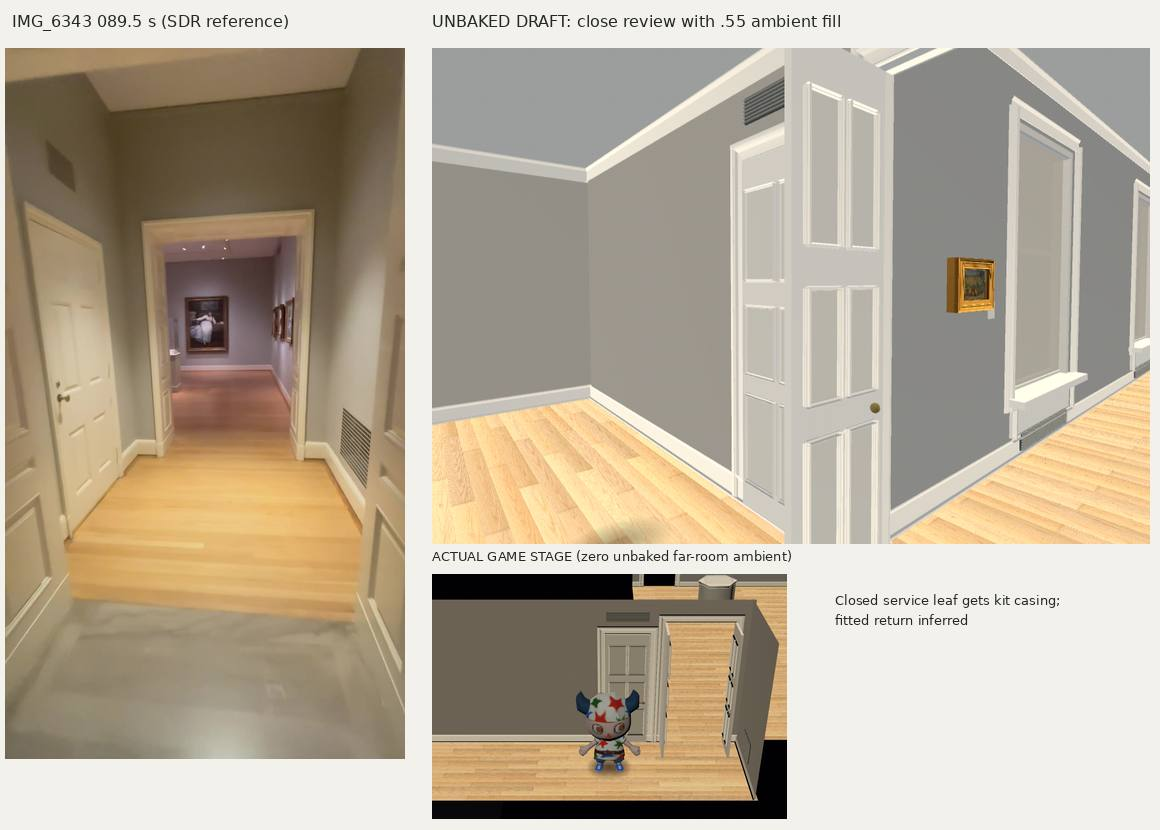
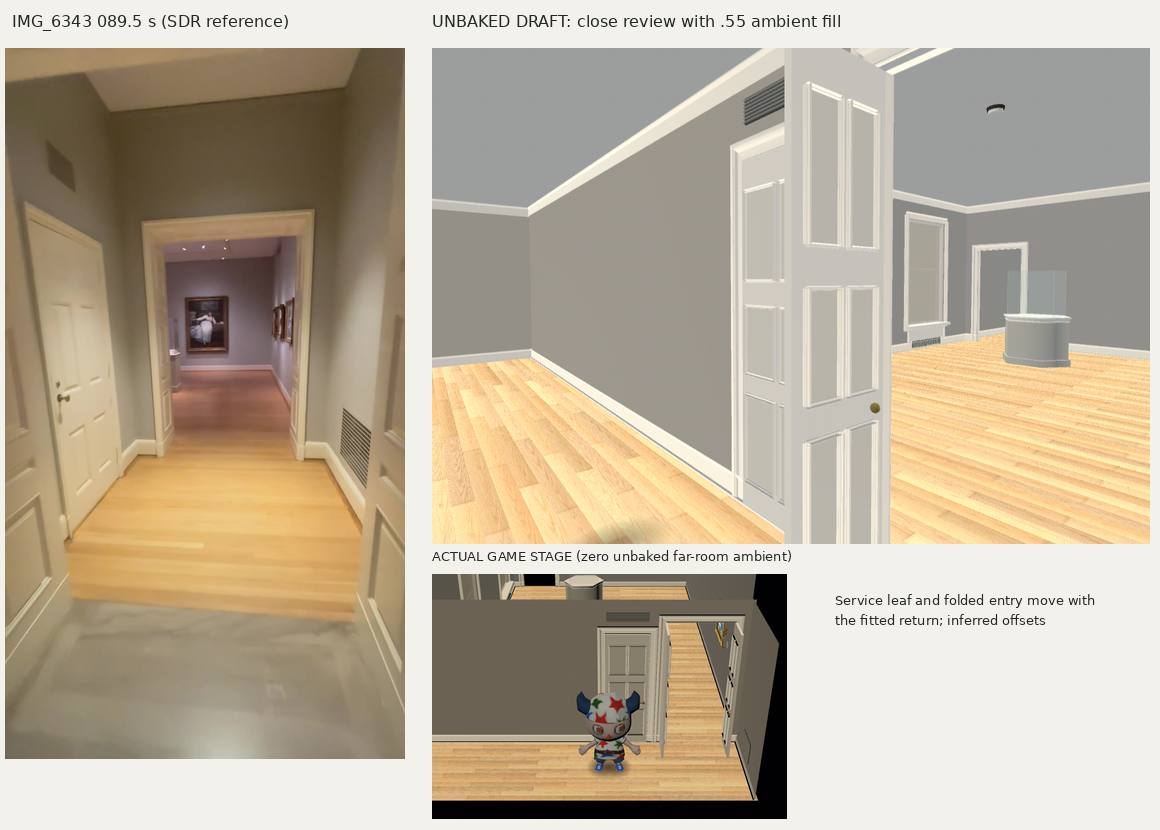
Show the corrected north entry and final gallery evidence

diff --git a/docs/evidence/impressionist-277/index.html b/docs/evidence/impressionist-277/index.html
@@ -19,5 +19,6 @@
 <figure><a href="4-work-Monet.jpg"><img loading="lazy" src="4-work-Monet.jpg" alt="A west: Monet 1998.107, existing tracked image"></a><figcaption>A west: Monet 1998.107, existing tracked image</figcaption></figure>
 <figure><a href="4-work-Cezanne.jpg"><img loading="lazy" src="4-work-Cezanne.jpg" alt="A east: Cézanne 41.012, existing tracked image"></a><figcaption>A east: Cézanne 41.012, existing tracked image</figcaption></figure>
 <figure><a href="4-work-Giverny.jpg"><img loading="lazy" src="4-work-Giverny.jpg" alt="B end wall: Monet 44.541, existing tracked image"></a><figcaption>B end wall: Monet 44.541, existing tracked image</figcaption></figure>
+<figure><a href="6-north-wall.jpg"><img loading="lazy" src="6-north-wall.jpg" alt="A northwest entry leaves two north-wall work positions bare"></a><figcaption>A northwest entry leaves two north-wall work positions bare</figcaption></figure>
 <figure><a href="fitted-plan.jpg"><img loading="lazy" src="fitted-plan.jpg" alt="Fixed-door plan: depths and extra passage return are inferred"></a><figcaption>Fixed-door plan: depths and extra passage return are inferred</figcaption></figure>
 </html>

diff --git a/docs/evidence/impressionist-277/fitted_plan.py b/docs/evidence/impressionist-277/fitted_plan.py
@@ -74,7 +74,7 @@ Longitudinal gap: 3.86 m
 Fit adds: passage +3.00 m,
 A +.06 m and B +.80 m.
 
-Extra lateral return: 4.70 m
+Extra lateral return: 8.90 m
 This is not observed in the clip.
 No adjoining room moves.
 

diff --git a/docs/evidence/impressionist-277/NOTES.md b/docs/evidence/impressionist-277/NOTES.md
@@ -16,7 +16,7 @@ Coordinates name the **fitted build plan**, not geographic compass directions. L
 | A width | **6.25 ± .60 m** | 147; rectified end wall, Le Repos canvas 1.140 × 1.502 m |
 | A depth | **9.6 ± 1.5 m**, inferred | 94, 143, 147; canvas angular width and assumed 50–60° portrait horizontal field of view; optics uncalibrated |
 | A height | **3.69 ± .35 m** | 147; same-plane ceiling/floor corners and Manet |
-| A entry | north wall, centre about 5.30 ± .45 m from west corner; 1.4 ± .2 m clear; head about2.7 ± .3 m, inferred | 141, 147; door/Manet scale, position weaker than end wall |
+| A entry | north wall near west end, centre fitted at1.00 ± .45 m from west corner; 1.4 ± .2 m clear; head about2.7 ± .3 m, inferred | 129/137–141; north-wall order is door → portrait → Children in the Tuileries → east corner; door/Manet scale, offset inferred |
 | A → B door | south wall, centre .95 ± .20 m from east corner; 1.04 ± .15 m clear, head **2.47 ± .20 m** | 147; Manet-plane homography; floor inside B is behind plane, so use A end-wall floor line |
 | A finishes | cool grey painted walls; white skirting/casings/cornice; honey oak straight boards across the room; pale flat ceiling | 98, 121, 145, 147 |
 | A window 1 | east wall, centre 3.0 ± .6 m from north; outer width 1.6 ± .2 m, sill .55 ± .12 m, head 3.15 ± .25 m | 143, 149; Degas canvas .464 × .629 m |
@@ -46,13 +46,13 @@ The footage does **not** establish a calibrated global camera pose. Adding the e
 | New area | Fitted bounds [x0, x1, z0, z1] | Height | Openings |
 | --- | --- | --- | --- |
 | Impressionist passage | [19.45, 21.45, -2.86, 1.04] | 3.2 | west z[-2.51,-1.41]; south x[19.75,21.15] |
-| Impressionist passage return | [14.75, 21.45, 1.04, 3.04] | 3.2 | north x[19.75,21.15]; south x[15.10,16.40] |
-| Impressionist gallery A | [10.55, 16.70, 3.04, 12.70] | 3.69 | north x[15.10,16.40]; south x[15.20,16.30] |
+| Impressionist passage return | [10.55, 21.45, 1.04, 3.04] | 3.2 | north x[19.75,21.15]; south x[10.90,12.20] |
+| Impressionist gallery A | [10.55, 16.70, 3.04, 12.70] | 3.69 | north x[10.90,12.20]; south x[15.20,16.30] |
 | Impressionist gallery B | [10.55, 16.70, 12.70, 22.30] | 3.5 | north x[15.20,16.30]; south x[15.10,16.40] |
 
-A's depth is stretched **.06 m**, B's **.80 m**, and the passage adds **3.00 m** of southward travel (5.00 m from stair centre to A entry instead of the 2.00 m filmed estimate). This totals the required **3.86 m** longitudinal fit. Both gallery widths are **6.15 m**, .10/.15 m narrower than the estimates. The passage return also adds **4.70 m of lateral travel** between x20.45 and x15.75; that return is a build fit, **not observed in the clip**. No existing adjoining room moves. The under-stair internal leg x17.85–19.45 is already inside the hall and has its obstruction opened.
+A's depth is stretched **.06 m**, B's **.80 m**, and the passage adds **3.00 m** of southward travel (5.00 m from stair centre to A entry instead of the 2.00 m filmed estimate). This totals the required **3.86 m** longitudinal fit. Both gallery widths are **6.15 m**, .10/.15 m narrower than the estimates. The passage return also adds **8.90 m of lateral travel** between x20.45 and x11.55; that return is a build fit, **not observed in the clip**. No existing adjoining room moves. The under-stair internal leg x17.85–19.45 is already inside the hall and has its obstruction opened.
 
-The first draft exposed a mirror error: looking towards +z, screen left is world **east**, and the filmed windows and end door are both on that side. The fit was corrected before the shell checkpoint. A/B now lie west of the passage and have east-side doors and windows; this preserves the filmed relationship and reduces gallery-depth distortion. The four new rectangles do not overlap any existing room. Their opening intervals match pairwise, including the retained modern far door. Source assertions and draft route samples check closure in the build. The passage return, room depths and wall offsets remain **INFERRED**; the exact physical museum plan is **not accepted**.
+The first draft exposed a mirror error: looking towards +z, screen left is world **east**, and the filmed windows and end door are both on that side. The fit was corrected before the shell checkpoint. A/B now lie west of the passage, with east-side windows and the A–B/modern doors near their east ends. A's north entry is at the west end after the correction in§14; this preserves the filmed relationship and reduces gallery-depth distortion. The four new rectangles do not overlap any existing room. Their opening intervals match pairwise, including the retained modern far door. Source assertions and draft route samples check closure in the build. The passage return, room depths and wall offsets remain **INFERRED**; the exact physical museum plan is **not accepted**.
 
 ## 3. Census checklist
 
@@ -95,14 +95,14 @@ The first preliminary (mirrored) draft command completed in the one `rebuild-imp
 | stair hall internal exit | x17.85 | z[-2.51,-1.41] | 2.47 | closed double leaf / solid wall removed |
 | stair hall outer east ↔ passage west | x19.45 | z[-2.51,-1.41] | 2.47 | new paired opening |
 | passage south ↔ return north | z1.04 | x[19.75,21.15] | 2.74 | new paired opening |
-| return south ↔ A north | z3.04 | x[15.10,16.40] | 2.74 | new paired opening |
+| return south ↔ A north | z3.04 | x[10.90,12.20] | 2.74 | new paired opening, corrected westward4.20m in§14 |
 | A south ↔ B north | z12.70 | x[15.20,16.30] | 2.47 | new paired opening |
 | B south ↔ modern north | z22.30 | x[15.10,16.40] | 2.74 | modern opening retained, stub replaced by B |
 
-New reciprocal doorway trials (x,z, room-scene metres): `impressionist_stair_inner` (16.85,-1.96) ↔ (19.05,-1.96); `impressionist_stair_outer` (19.05,-1.96) ↔ (20.45,-1.96); `impressionist_passage_return` (20.45,.40) ↔ (20.45,1.80); `impressionist_return_A` (15.75,2.25) ↔ (15.75,3.85); `impressionist_A_B` (15.75,11.85) ↔ (15.75,13.55). Each has `_out` and `_back`.
+New reciprocal doorway trials (x,z, room-scene metres): `impressionist_stair_inner` (16.85,-1.96) ↔ (19.05,-1.96); `impressionist_stair_outer` (19.05,-1.96) ↔ (20.45,-1.96); `impressionist_passage_return` (20.45,.40) ↔ (20.45,1.80); `impressionist_return_A` (11.55,2.25) ↔ (11.55,3.85); `impressionist_A_B` (15.75,11.85) ↔ (15.75,13.55). Each has `_out` and `_back`.
 
-The **28** `impressionist_route_00..13_out/back` trials follow:
-`(20.45,-1.96) → (20.45,.40) → (20.45,2.04) → (18.25,2.04) → (15.75,2.04) → (15.75,3.85) → (14.85,6.20) → (14.85,9.20) → (15.75,11.85) → (15.75,13.55) → (13.25,15.70) → (13.25,18.70) → (13.25,20.65) → (15.75,21.45) → (15.75,23.25)`, each segment ≤3.5 m. The existing `modern_far_opening_out/back` retain their coordinates (15.75,23.25) ↔ (15.75,21.45). **38 added trials; no pre-existing trial moved**. Baked playtest has not been run on a draft.
+The **32** `impressionist_route_00..15_out/back` trials follow:
+`(20.45,-1.96) → (20.45,.40) → (20.45,2.04) → (18.25,2.04) → (15.00,2.04) → (11.75,2.04) → (11.55,3.85) → (13.55,5.20) → (14.85,6.20) → (14.85,9.20) → (15.75,11.85) → (15.75,13.55) → (13.25,15.70) → (13.25,18.70) → (13.25,20.65) → (15.75,21.45) → (15.75,23.25)`, each segment ≤3.5 m. The existing `modern_far_opening_out/back` retain their coordinates (15.75,23.25) ↔ (15.75,21.45). **42 added trials; no pre-existing trial moved**. Baked playtest has not been run on a draft.
 
 Close draft photographs use the room draft's .55 ambient fill and show adjacent rooms for geometry review. Game photographs retain the actual walking adapter's zero far-room ambient and its stage masking. The adapter expects a bake; a black ceiling in that unbaked game view is not proof of missing ceiling geometry. No runtime light setting is changed by the capture script.
 
@@ -143,7 +143,7 @@ Room-owned additions call the kit for trims/leaf beads and reuse existing cloth;
 
 Four already-tracked museum photographs are used: A west42.219 at along2.45/y1.65 and1998.107 at along8.05/y1.65; A east41.012 at along1.35/y1.62; B south44.541 at along3.15/y1.65. Canvas sizes are respectively .743×.552, .648×.533, .397×.232 and .927×.648 m, from the linked primary records. Three source JPEGs come from `prototypes/painting-coverflow/web/assets/`; Cézanne comes from the existing `inventory-catalogue/` photo. Every source byte is unchanged. Existing carved gilt E7/plain gilt W10 frames are fitted to approximately1.016×.807, .912×.780, .576×.399 and1.135×.843 m; ornament fidelity is provisional. Blank card shapes go to the viewer's right. The other12 paintings have bare wall positions; the dancer's case is empty.
 
-Additional edits outside the additions file: a separate six-line image-copy block in `prepare_remodel.py`; exactly four new authored rows each in `objects.json` and `representation.json` (no old declaration or shortfall changed); append the four source/provider/hash/cost records to `modules/shell/PROVENANCE.md`. Evidence/capture files are review-only. No generated rooms, images or import settings are committed.
+Additional edits outside the additions file: a separate six-line image-copy block in `prepare_remodel.py`; exactly four new authored rows each in `objects.json` and `representation.json` (no old declaration or shortfall changed); append the four source/provider/hash/cost records to `modules/shell/PROVENANCE.md`. Evidence/capture files are review-only. No generated room scenes, runtime images or import settings are committed.
 
 The unchanged representation checker on the source draft reported **181 built, 181 declared, failures=[]**. Its15 pre-existing unregistered works are unchanged and outside #277. The unchanged architecture checker still reports **28 casings, failures=[]**. The native capture completed without errors; all40 route trials remain clear. `4-work-Basin.jpg`, `4-work-Monet.jpg`, `4-work-Cezanne.jpg`, `4-work-Giverny.jpg` and `4-room-A.jpg` show the four actual photographs hung in the draft beside source footage. **VERIFIED:** all four images/frames appear, with bare spaces for the remaining works. **INFERRED:** wall offsets, borrowed ornament fidelity and final baked brightness. The official final draft completed with `ARCHITECTURE_CHECK failures=[]` and28 cased door sides at about18:49 UTC, source tip `a4132e1e`.
 
@@ -188,12 +188,29 @@ One interim capture was stopped after the rebuild had cleared its unchanged char
 The final official rebuild at source tip9b1e6e9f timed out at20:11 UTC **while waiting in `flock`**, before any preparation or architecture output (exit124). It did not alter the retained draft and is not an architecture failure. The same unpaid `--draft` command was requeued; its result is recorded below. Direct native source checks/pictures remain clear as above.
 
 
-## 13. Final source handoff
+## 13. Pre-entry-correction source handoff (9b1e6e9f)
 
 The requeued official `scripts/rebuild_rooms.sh --draft` completed at **20:21 UTC**, source tip **9b1e6e9fa38ae136ce4f98b60f77c96a1b27e877**, and printed **ARCHITECTURE_CHECK failures=[]**, **29 cased sides**, then the draft-project path. The earlier timeout was host-lock waiting only. This rebuild prepared **19 plan areas** and **38 new route trials**; both additions and all four existing artwork photographs match source bytes. The prepared shared shell has only its pipeline's three expected substitutions (retained Hall surface naming and the separate bake resource paths).
 
 The 44 unchanged capture dependencies were restored and imported successfully. The fresh native GL Compatibility capture completed with **40 reciprocal trials clear**, **zero route failures**, exit0 and no `ERROR`/`SCRIPT ERROR`. Source-draft representation again reports **181 built /181 declared, failures=[]**, exit0. The six `5-final-*.jpg` pictures are refreshed from this official final draft, with source footage at143/218/147/89.5/86s beside them. Their close views use the documented review-only.55 ambient fill; their game insets retain the actual zero unbaked far-room ambient. No lighting acceptance is claimed. Fresh in-memory UV2 preparation on this official final draft reports **400 opaque surfaces**, zero failures/duplicate owned names, exit0 and no bake.
 
-The last full `scripts/check.sh` run exits1 on **exactly the same seven installed-scene mismatches**, and does **not** print `checks passed`: three unrelated stale medieval mesh placements plus the four new paintings absent from the old installed scene. Image and record checks pass; no gate or declaration was weakened. `git diff --check` is clean. Baked `museum_playtest.gd --only=doors` remains for the orchestrator after installation. Its six door planes and38 new/two retained trials are specified in§7; no old trial or door moves.
+The last full `scripts/check.sh` run exits1 on **exactly the same seven installed-scene mismatches**, and does **not** print `checks passed`: three unrelated stale medieval mesh placements plus the four new paintings absent from the old installed scene. Image and record checks pass; no gate or declaration was weakened. `git diff --check` is clean. Baked `museum_playtest.gd --only=doors` remains for the orchestrator after installation. That checkpoint had38 new/two retained trials; the corrected handoff in§14/§7 has42 new/two retained. No baseline trial or existing room door moves.
 
 The measured artwork positions/window/door relationships and fitted dimensions retain the uncertainty in§1–2 and `WORKS-NEEDED.md`. Exact physical museum geometry, final daylight/track pools, borrowed frame ornament and incomplete bench elevation remain **INFERRED / unaccepted**. Twelve paintings and the bronze need approved assets; their positions remain bare/empty. The existing modern-room Venetian blinds, the marble hall's other census faults, and the stale generated medieval scene are outside #277. No merge, issue closure, bake, generated-room installation, paid request or copyright-hold image was made. The private draft is left for the orchestrator at the named extension path.
+
+
+## 14. North-entry correction
+
+The final inventory clearance audit found A's preliminary north opening overlapped A-N1 (Children in the Tuileries Gardens). Re-reading129/137/139/141 resolves the north-wall order, west to east: **entry, Carolus-Duran portrait, Children in the Tuileries, east corner/Cézanne**. The preliminary assumption that both A doors belonged at the east end was wrong. The north entry is corrected to **x11.55 atz3.04**, clear **[10.90,12.20]**, while the A–B opening stays atx15.75/z12.70 and both existing stair/modern doors stay fixed.
+
+Only A's north/return's south intervals and the return's west bound change in `prepare_remodel.py`; the return now starts atx10.55, touches the Grand Gallery's east wall without overlap, and provides **8.90m of inferred lateral travel** instead of4.70m. Longitudinal residual3.86m, gallery dimensions, all four windows, works/case/bench and other rooms are unchanged. The folded A-entry leaves move west4.20m in the own additions file; the service leaf, its kit surround/high vent and low grille follow the return's new west end automatically. Final service centre isx12.95, high vent y2.85. No lamp or kit implementation changes.
+
+`impressionist_return_A_out/back` moves fromx15.75 tox11.55. Only newly added #277 route legs are resampled through the longer return and the western entry; route names now00..15, giving **42 new reciprocal trials** plus the2 unchanged `modern_far_opening` trials. Source waypoints and every final door interval are in§7. The earlier checkpoint counts/images remain historical; the refreshed final evidence supersedes their north-entry relationship. Exact entry offset/return length remain **INFERRED**, with frame references/errors in§1.
+
+The official corrected-entry `--draft` completed at **20:40 UTC**, source tip **503144688befc2a05eb0bf16dcc859c7f51cacaa**: **ARCHITECTURE_CHECK failures=[]**, **29 cased sides**, **19 plan areas**, **42 new trials**. The new bounds still pass the no-overlap and paired-opening assertions. Additions/four photographs match source bytes;44 unchanged capture dependencies were restored/imported.
+
+Fresh native GL Compatibility photographs verify the west-end north entry and the service/folded leaves in their corrected positions. **All44 reciprocal trials are clear** (42 new/2 retained), native capture exit0 with no `ERROR`/`SCRIPT ERROR`. Source-draft representation is **181 built/181 declared, failures=[]**, exit0;400 owned opaque surfaces unwrap without failure or duplicate owned names, exit0/no bake. The first concurrent headless representation run printed an exit-cleanup error for one resource still in use despite its passing marker/exit0. A targeted run alone passed with no error; the cause is unverified and no checker was changed. Native captures have no such error.
+
+The six `5-final-*` pictures are now refreshed from50314468; `6-north-wall.jpg` shows the corrected entry and bare north-wall work positions beside129s. These supersede the earlier photographs' preliminary northeast entry. The fitted-plan diagram uses this final prepared geometry and8.90m return. B-E3's proposed fitted slot is3.40m, within the footage estimate3.78±.8m, to leave room for its future frame/card by the window casing; the measured estimate remains in `WORKS-NEEDED.md`.
+
+The full `scripts/check.sh` at this source exits1 on the same seven installed-scene mismatches and does not print `checks passed`; images43/129 and record-floor checks pass. `git diff --check` is clean. No generated runtime scene/image, lamp/kit implementation, frozen seam or pre-existing room/door/trial changes. Final lamp pools, the bake/install, baked doors and Web traversal remain the orchestrator's work. No end-of-task issue comment has been posted before this corrected proof.

diff --git a/modules/shell/PROVENANCE.md b/modules/shell/PROVENANCE.md
@@ -1097,4 +1097,35 @@ Reused textures (existing provider/generation record retained; zero new spend):
 
 Room geometry is locally authored GDScript in `impressionist_additions.gd`: six-sided plinth/clear hood, rounded upholstered bench, panelled leaves, sash windows/roller shades/aprons, grilles and detector. Plain/procedural materials and the existing white trim/wood kit are reused; no new raster generation. Borrowed gilt frame textures are fitted to approximate filmed outer dimensions; fine ornament fidelity is unaccepted. Lamps and the bake remain #274/orchestrator work.
 
[2 lines of base64/hex data omitted]
+
+#277 review-image evidence (no runtime dependency): source footage IMG_6343.MOV (SDR) and native unbaked Godot4.7.2 GL Compatibility views, with exact frame/checkpoint in NOTES.md. Provider: local ffmpeg/Godot/Pillow; model: none; count26 review JPEGs; total new spend: USD0. Close views use review-only.55 ambient, game insets retain actual zero unbaked far-room ambient. Diagram source/geometry are recorded above.
+
+| Review file | SHA-256 |
+| --- | --- |
[26 lines of base64/hex data omitted]

diff --git a/docs/evidence/impressionist-277/WORKS-NEEDED.md b/docs/evidence/impressionist-277/WORKS-NEEDED.md
@@ -19,7 +19,7 @@ Wall directions and metres refer to the fitted plan in `NOTES.md`, not geographi
 | B-S2 | Chestnut Trees and Farm at Jas de Bouffan — Paul Cézanne — **33.053** | B south | 1.15 / 1.65 | .810 × .654; frame .97 × .81 ± .08 | 190–192, 214; [RISD](https://risdmuseum.org/art-design/collection/chestnut-trees-and-farm-jas-de-bouffan-33053) |
 | B-E1 | Iris in a Pitcher / Iris in a Vase — Marie Bracquemond — **2021.101** | B east | .93 / 1.64 | .235 × .330; frame .37 × .47 ± .05 | 200–203; [RISD](https://risdmuseum.org/art-design/collection/iris-pitcher-2021101); readable maker on 201.8 |
 | B-E2 | Child in a Red Apron — Berthe Morisot — **2010.57** | B east | 2.36 / 1.65 | .499 × .600; frame .71 × .81 ± .07 | 205–207; [RISD](https://risdmuseum.org/art-design/collection/child-red-apron-201057) |
-| B-E3 | View of Auvers-sur-Oise — Vincent van Gogh — **35.770** | B east | 3.78 / 1.65 | .421 × .340; frame .66 × .58 ± .07 | 210–212; [RISD](https://risdmuseum.org/art-design/collection/view-auvers-sur-oise-35770) |
+| B-E3 | View of Auvers-sur-Oise — Vincent van Gogh — **35.770** | B east | **3.40 fitted** / 1.65 (footage estimate3.78 ± .8) | .421 × .340; frame .66 × .58 ± .07 | 210–212; [RISD](https://risdmuseum.org/art-design/collection/view-auvers-sur-oise-35770) |
 | B-E4 | Simone in a Blue Bonnet — Mary Cassatt — **60.095** | B east, between windows | 6.80 / 1.65 | .521 × .610; frame .77 × .86 ± .07 | 216, 220–223; [RISD](https://risdmuseum.org/art-design/collection/simone-blue-bonnet-60095) |
 
 ## Existing images used by the source
@@ -45,3 +45,6 @@ The previously found framed IIIF copy of1998.107 is retained untouched but is no
 ## Follow-up certainty
 
 All 17 visible works have an inventory entry. Identities are visual/label matches to primary museum records; the dancer's exact cast remains inferred; the Carolus-Duran accession is resolved as 2007.68. New fetched images must be checked against these frames; do not treat an approximate matching title or a different Cézanne accession already in the modern room (43.255) as this painting.
+
+
+The corrected north entry is at A north along1.00m, west of both north-wall works. At the initial B-E3 estimate3.78m, the approximate van Gogh frame would overlap the first window's kit casing by.09m. Its proposed fitted centre is therefore3.40m (within the±.8m positional uncertainty), leaving room for the frame and its right-hand card. This is an inferred fit for the later approved-image installation, not a changed catalogue dimension; check the real frame/card extent when fetching. No missing work is hung now.
